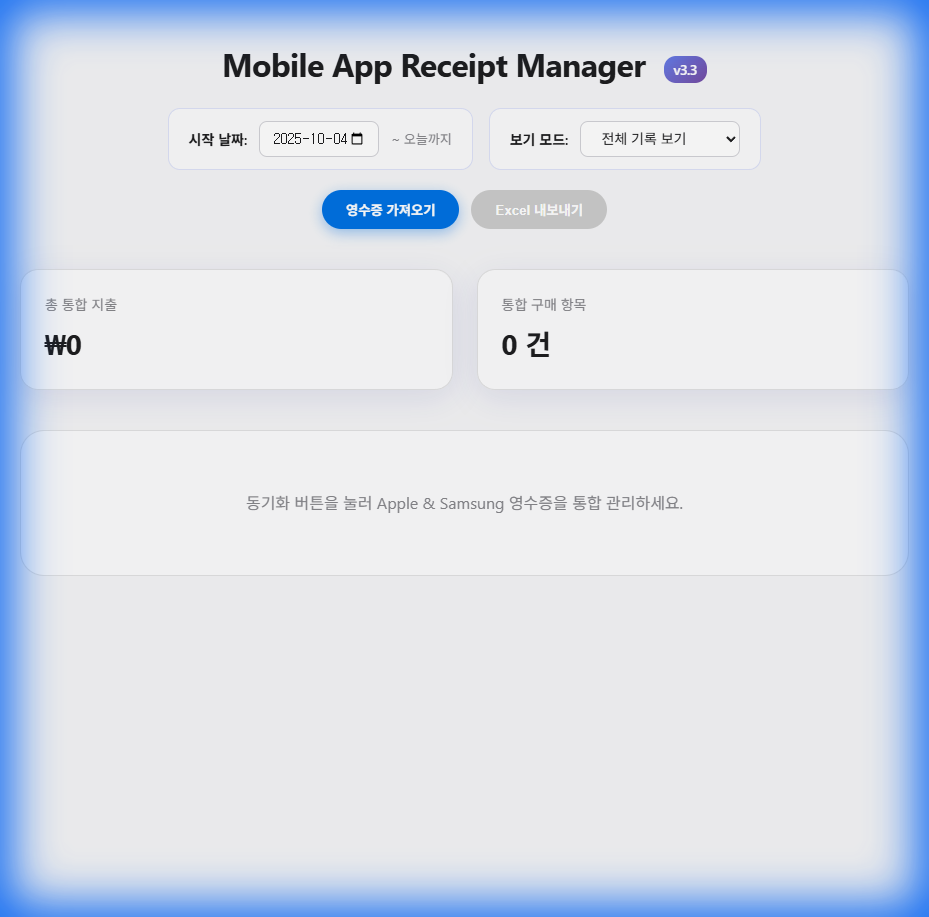
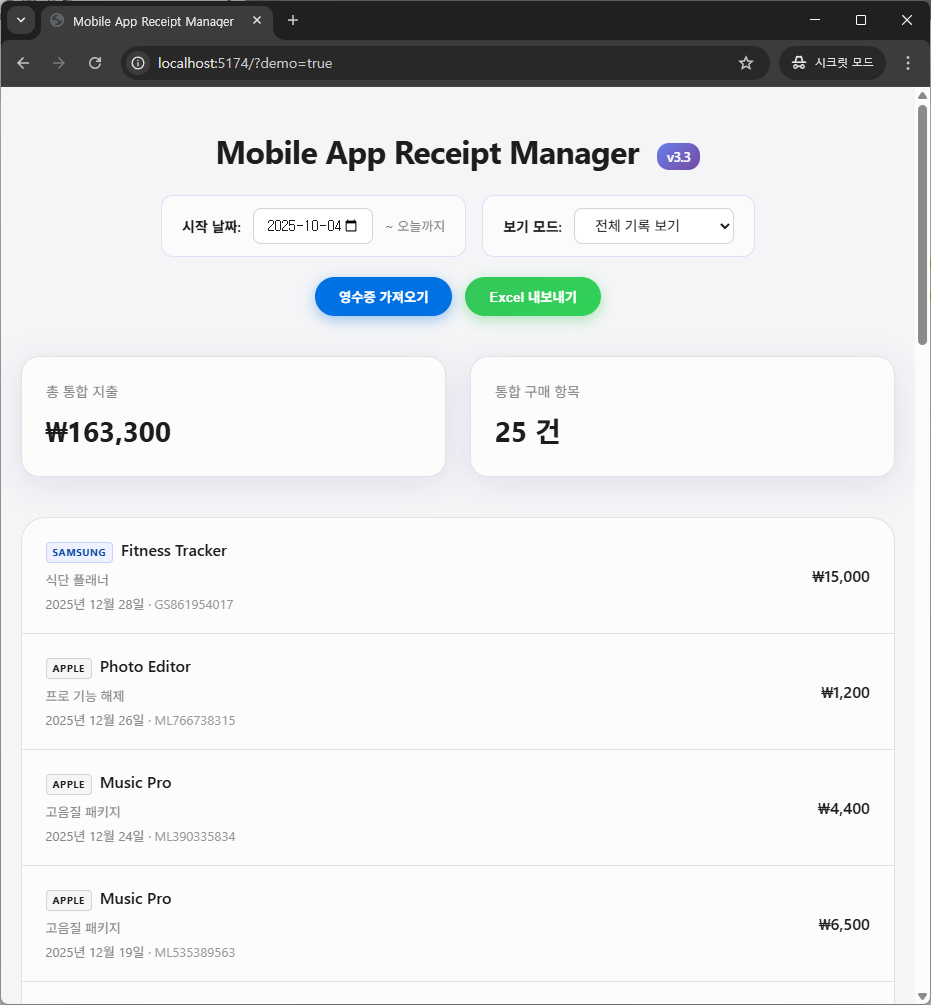
Add demo data mode for README screenshots

diff --git a/server/index.js b/server/index.js
@@ -53,6 +53,62 @@ const getSyncData = async (startDate) => {
     return allItems;
 };
 
+// Demo data generator for README screenshots
+const generateDummyData = () => {
+    const apps = [
+        { platform: 'Apple', appName: 'Game Plus', products: ['월간 구독권', '스타터 팩', '보석 500개'] },
+        { platform: 'Apple', appName: 'Music Pro', products: ['프리미엄 구독', '고음질 패키지'] },
+        { platform: 'Apple', appName: 'Photo Editor', products: ['필터 팩', '프로 기능 해제', '클라우드 저장소'] },
+        { platform: 'Samsung', appName: 'Fitness Tracker', products: ['연간 멤버십', '개인 코치', '식단 플래너'] },
+        { platform: 'Samsung', appName: 'Study Notes', products: ['광고 제거', '무제한 노트', 'PDF 내보내기'] },
+        { platform: 'Apple', appName: 'Weather Live', products: ['프리미엄 업그레이드', '위젯 팩'] },
+        { platform: 'Samsung', appName: 'Video Player', products: ['4K 지원', '자막 다운로드'] },
+        { platform: 'Apple', appName: 'Task Manager', products: ['팀 협업', '캘린더 연동'] }
+    ];
+
+    const prices = [1000, 1200, 2200, 3300, 4400, 5500, 6500, 7700, 9900, 12000, 15000];
+    const items = [];
+    const now = new Date();
+
+    // Generate 25 dummy receipts over the past 3 months
+    for (let i = 0; i < 25; i++) {
+        const app = apps[Math.floor(Math.random() * apps.length)];
+        const product = app.products[Math.floor(Math.random() * app.products.length)];
+        const price = prices[Math.floor(Math.random() * prices.length)];
+
+        // Random date within last 3 months
+        const daysAgo = Math.floor(Math.random() * 90);
+        const date = new Date(now);
+        date.setDate(date.getDate() - daysAgo);
+
+        items.push({
+            uid: `demo-${i + 1}`,
+            platform: app.platform,
+            subject: `${app.appName} 구매 확인`,
+            date: date.toISOString(),
+            orderId: `${app.platform === 'Apple' ? 'ML' : 'GS'}${String(Math.floor(Math.random() * 900000000) + 100000000)}`,
+            appName: app.appName,
+            productName: product,
+            price: `₩${price.toLocaleString()}`
+        });
+    }
+
+    // Sort by date descending
+    items.sort((a, b) => new Date(b.date) - new Date(a.date));
+    return items;
+};
+
+// Demo endpoint for README screenshots
+app.get('/api/demo', (req, res) => {
+    try {
+        const dummyData = generateDummyData();
+        res.json(dummyData);
+    } catch (error) {
+        console.error('Error generating demo data:', error);
+        res.status(500).json({ error: error.message });
+    }
+});
+
 app.get('/api/sync', async (req, res) => {
     try {
         const startDate = getStartDate(req.query.startDate);

diff --git a/src/App.jsx b/src/App.jsx
@@ -42,7 +42,12 @@ function App() {
     const syncReceipts = async () => {
         setLoading(true);
         try {
-            const response = await fetch(`/api/sync?startDate=${startDate}`);
+            // Check for demo mode via URL parameter
+            const urlParams = new URLSearchParams(window.location.search);
+            const isDemo = urlParams.get('demo') === 'true';
+
+            const endpoint = isDemo ? '/api/demo' : `/api/sync?startDate=${startDate}`;
+            const response = await fetch(endpoint);
             const data = await response.json();
             setReceipts(data);
 

diff --git a/.agent/workflows/chrome-download-fix.md b/.agent/workflows/chrome-download-fix.md
@@ -1,0 +1,23 @@
+---
+description: Chrome 브라우저에서 파일 다운로드가 안 될 때 해결 방법
+---
+
+## 배경
+Chrome 브라우저는 보안 정책상 Blob URL을 통한 파일 다운로드를 차단하거나 무시하는 경우가 있습니다. 특히 Cross-origin 환경에서 자주 발생합니다.
+
+## 해결 방법
+// turbo
+1. 서버 응답 헤더에 `Content-Disposition: attachment; filename=filename.ext`를 설정합니다.
+2. 클라이언트에서는 Blob 생성 대신 `window.location.href = '/api/download-url'`을 사용하여 직접 링크를 호출합니다.
+
+```javascript
+// 서버 (Express 예시)
+res.setHeader('Content-Type', 'text/csv');
+res.setHeader('Content-Disposition', 'attachment; filename=data.csv');
+res.send(csvContent);
+
+// 클라이언트
+const downloadFile = (params) => {
+    window.location.href = `/api/export?${params}`;
+};
+```
